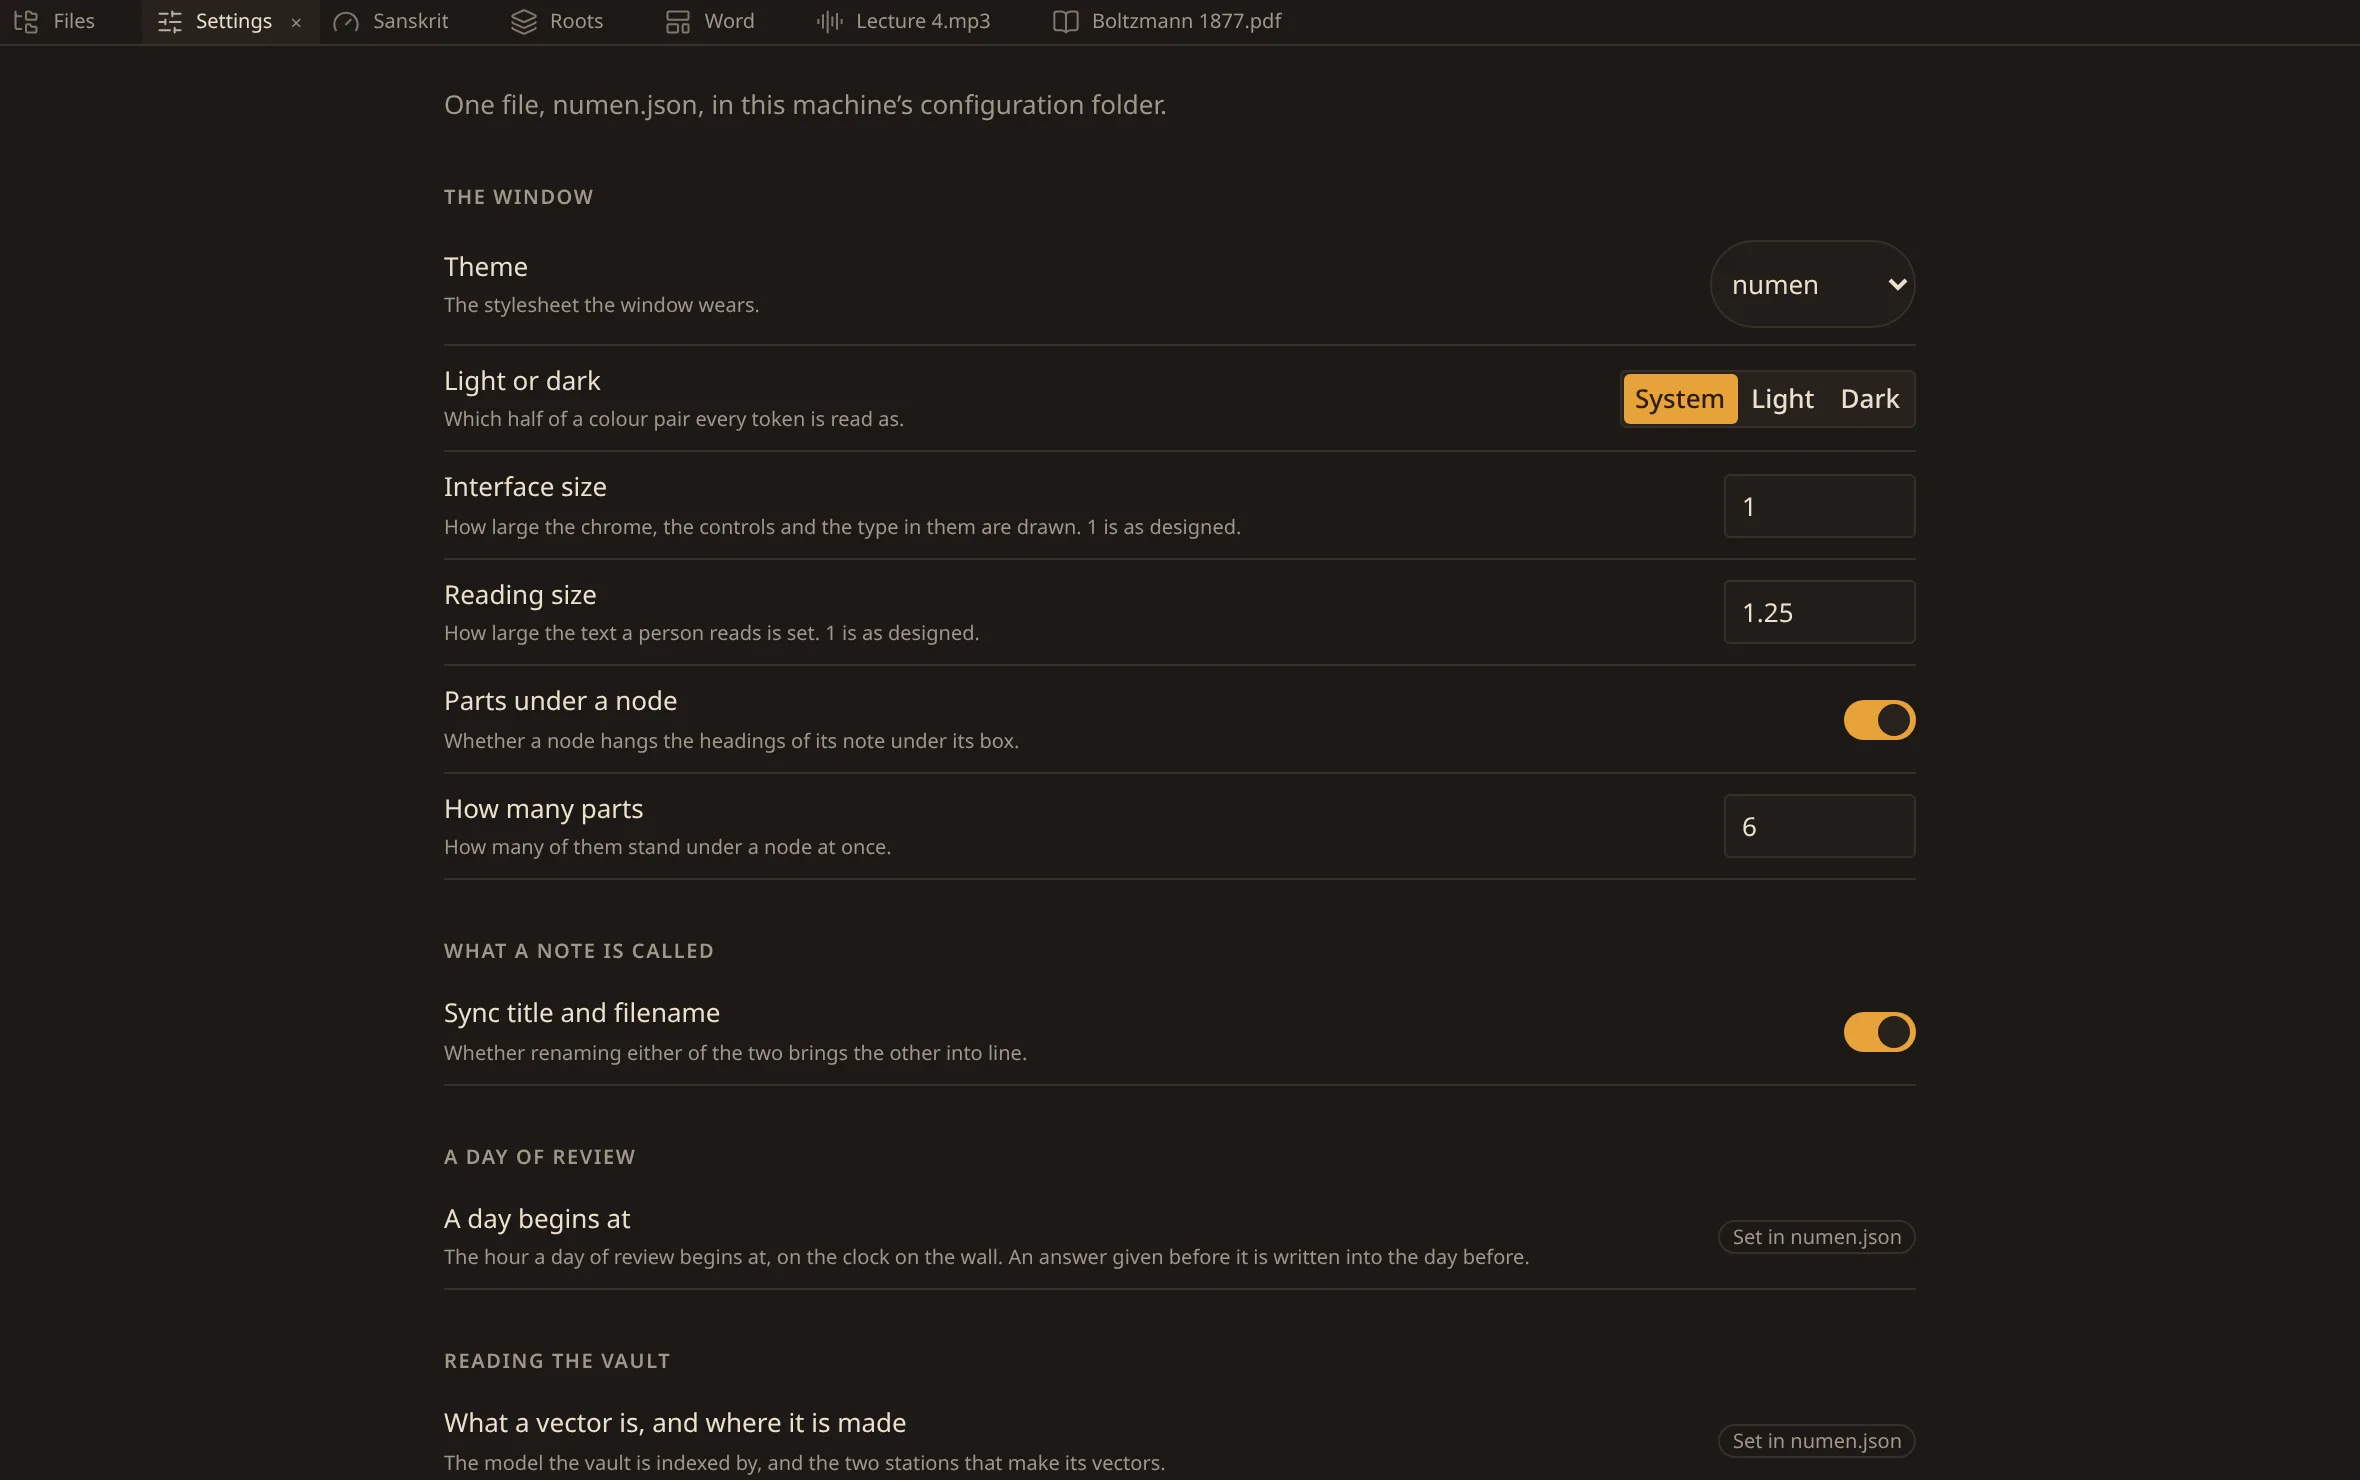
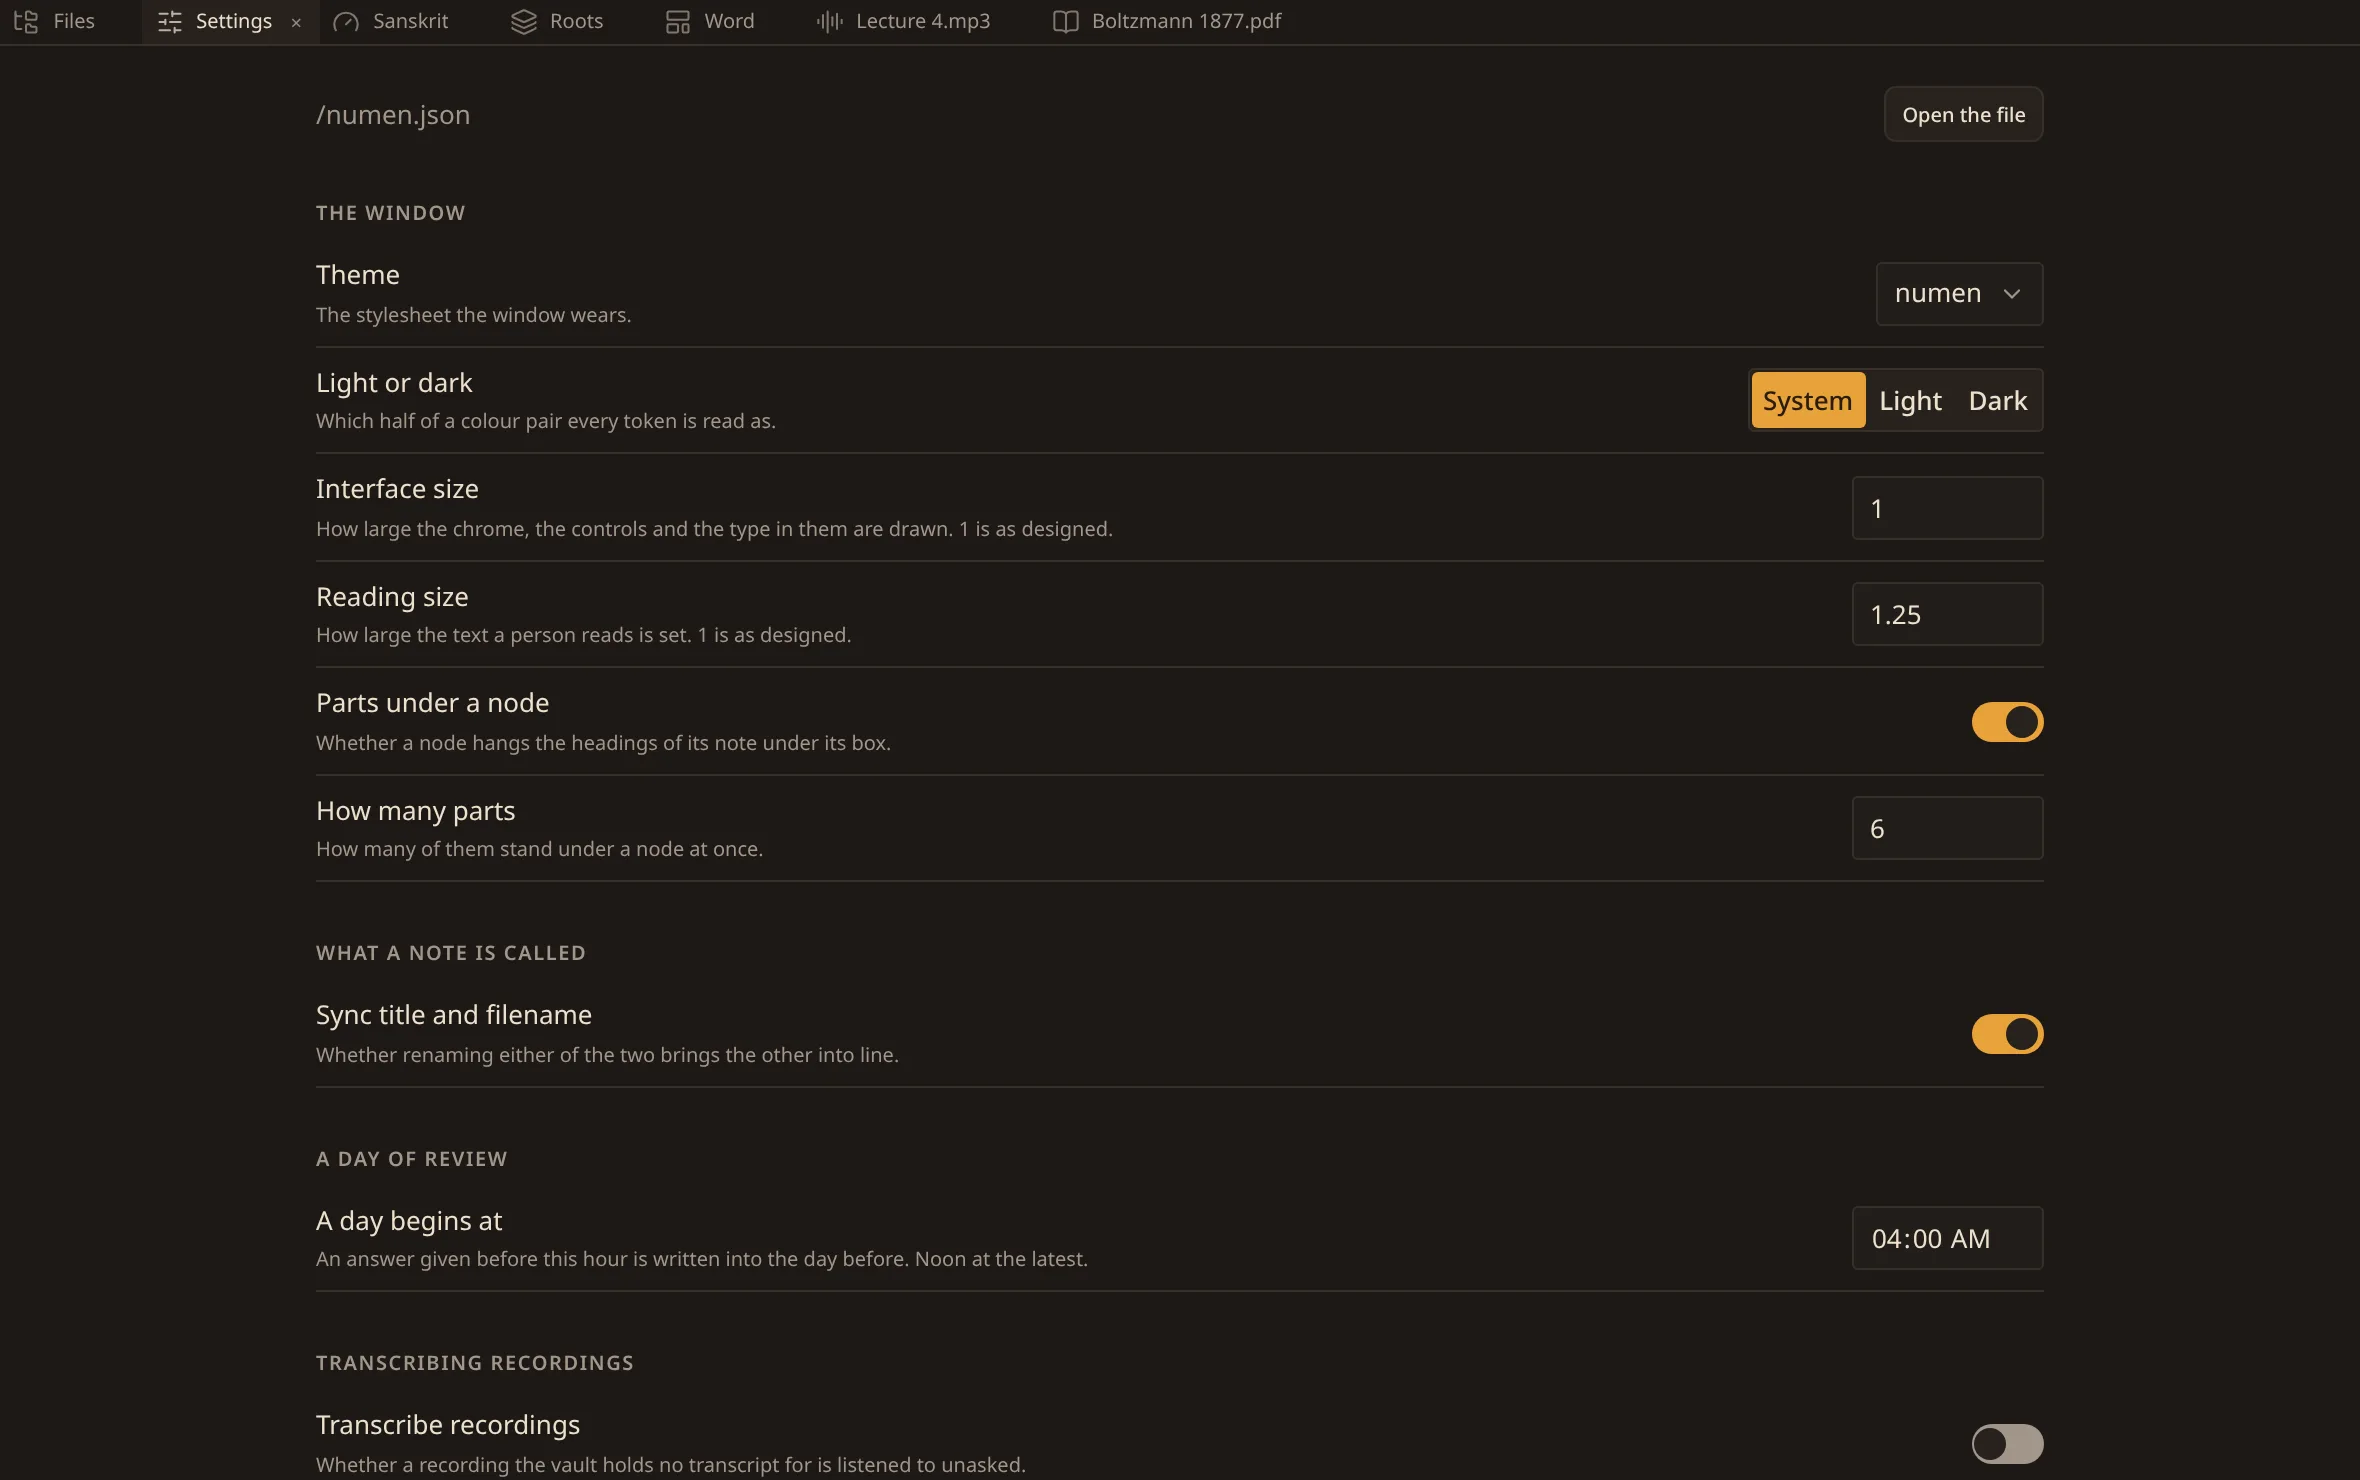
docs(docs): the pictures show the window that ships
The set was last taken on the second of September, and every screen has moved
since: the type ladder names the sizes now, so text sits a step differently
across the window, and a line of work in the agent panel cuts a long note name
with an ellipsis. The settings page is the furthest along — it drew the old
header and two rows saying **Set in numen.json** where it now stands
`/numen.json` with **Open the file** over it, a field for the hour a day of
review begins at, and the switches that transcribe recordings. The recording
strip was a floating card before it became one row across the top with the menu
at its end.

A story that will not load draws Storybook's error page, which is a full window
of pixels: the guard on the size of what came back passed it, and a picture of
an error page would have gone into the manual unnoticed. The run now waits for
the story to put something on the screen and stops on the one that did not.

A picture that comes back the same picture is left alone, because the encoder
writes different bytes of one window and a run over a manual nothing has
changed under should touch nothing.

Claude-Session: https://claude.ai/code/session_011P4XbKyFhkhrumCmnPXH76

diff --git a/modules/apps/docs/README.md b/modules/apps/docs/README.md
@@ -38,3 +38,18 @@ npm run manual:check  # fail where a page has drifted
 `npm run build` writes them first, and the workflow checks them, so a command,
 a chord, a setting or a flag added to the application without the manual
 catching up is caught in CI.
+
+## Taking the pictures
+
+```
+npm run shoot  # every picture in src/assets/, light and dark
+```
+
+Each is a story of `modules/libs/ui`, drawn at the size it is drawn at.
+A screen of the desktop reaches `@numen/protocol`, so that module needs its
+dependencies installed as well, and a story that will not draw stops the run
+rather than being photographed.
+
+A picture that came back the same picture is left where it is: the encoder
+writes different bytes of one window, so what is compared is the pixels. A run
+over a manual nothing has changed under leaves the folder untouched.
